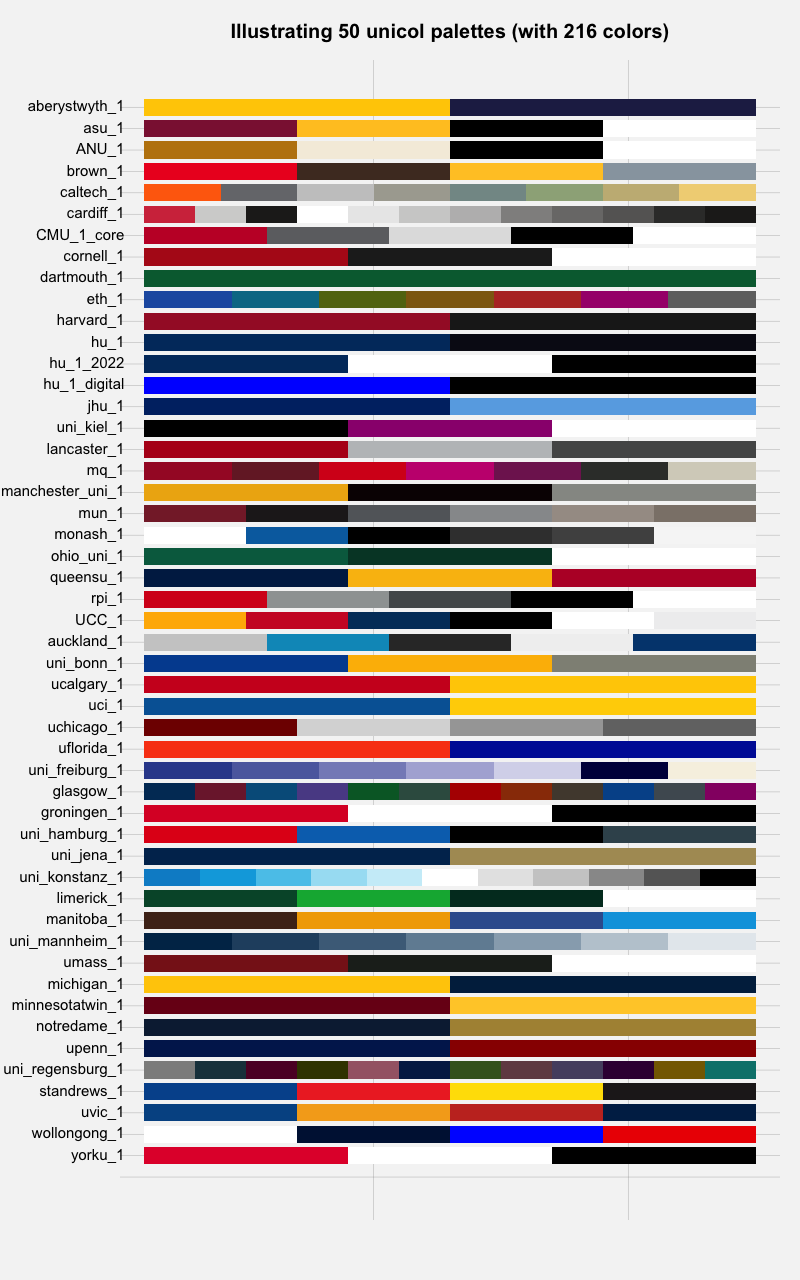
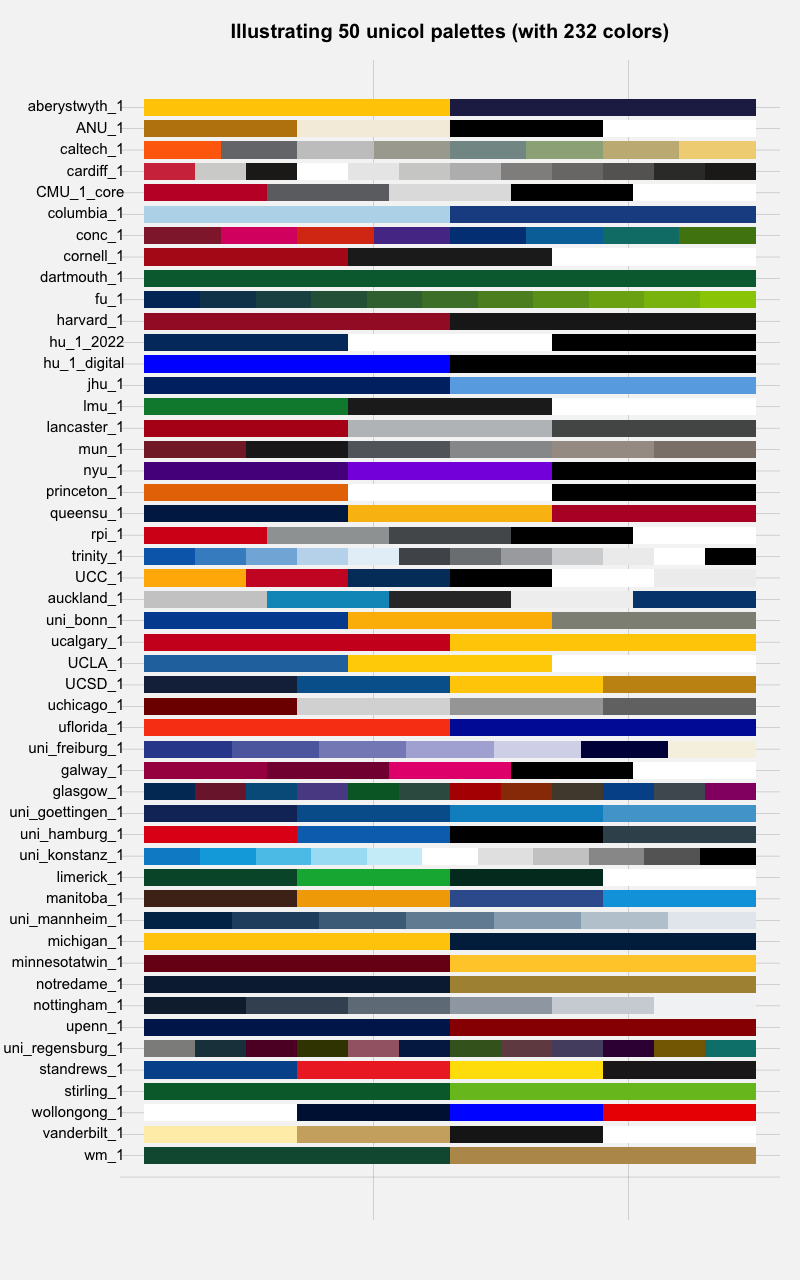
update README

diff --git a/README.md b/README.md
@@ -21,7 +21,7 @@ status](https://www.r-pkg.org/badges/version/unicol)](https://CRAN.R-project.org
 <!-- [![DOI](https://zenodo.org/badge/DOI/10.5281/zenodo.8252106.svg)](https://doi.org/10.5281/zenodo.8252106) -->
 <!-- ALL badges end. -->
 
-# unicol 0.2.0.9002 <img src = "man/figures/logo.png" align = "right" alt = "unicol::" width = "160px" alt="" />
+# unicol 0.2.0.9003 <img src = "man/figures/logo.png" align = "right" alt = "unicol::" width = "160px" alt="" />
 
 <!-- unicol pkg logo and link: -->
 <!-- <a href = "https://CRAN.R-project.org/package=unicol"> -->
@@ -85,7 +85,7 @@ library(unikn)   # for color functions
 
 ## Contents
 
-The **unicol** package currently provides **239 color palettes** from
+The **unicol** package currently provides **241 color palettes** from
 **103 institutions**.
 
 <!-- **Table\ 1** provides an overview of all color palettes:  -->
@@ -99,18 +99,18 @@ an overview of included color palettes and institutions.)
 
 ### Examples of color palettes
 
-<!-- The **unicol** package currently contains **239\ color palettes** from **103\ institutions**.  -->
+<!-- The **unicol** package currently contains **241\ color palettes** from **103\ institutions**.  -->
 <!-- Example 1: Random pals (from vignette color_pals.Rmd): -->
 <!-- Show as a table: -->
 <!-- Show as a figure: -->
 
-**Figure 1** illustrates 50 random color palettes (with 216 colors):
+**Figure 1** illustrates 50 random color palettes (with 232 colors):
 
 <div class="figure" style="text-align: center">
 
-<img src="man/figures/README-unicol-pals-example-1-figure-1.png" alt="Figure 1: A sample of 50 unicol palettes (containing 216 colors)." width="680px" />
+<img src="man/figures/README-unicol-pals-example-1-figure-1.png" alt="Figure 1: A sample of 50 unicol palettes (containing 232 colors)." width="680px" />
 <p class="caption">
-Figure 1: A sample of 50 unicol palettes (containing 216 colors).
+Figure 1: A sample of 50 unicol palettes (containing 232 colors).
 </p>
 
 </div>
@@ -325,6 +325,6 @@ creators.
 
 <!-- Footer: -->
 
-\[File `README.Rmd` updated on 2023-09-22.\]
+\[File `README.Rmd` updated on 2023-09-23.\]
 
 <!-- eof. -->
